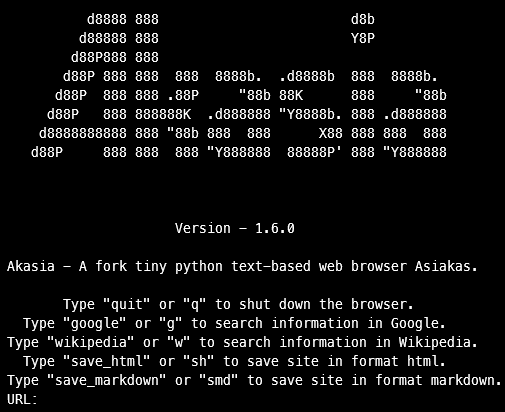
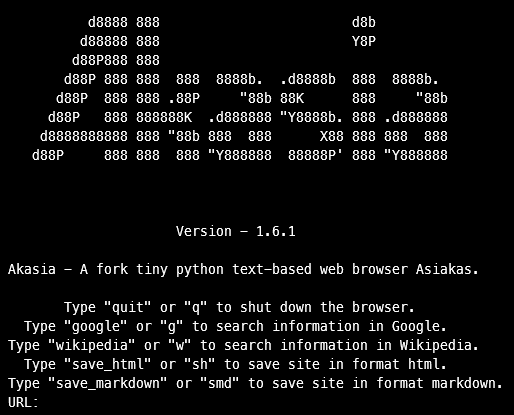
Release 1.6.1
Update requirements

diff --git a/setup.py b/setup.py
@@ -5,7 +5,7 @@ setup.py is the Akasia setup file.
 from setuptools import setup
 
 setup(
-    version='1.6.0',
+    version='1.6.1',
     license="MIT License",
     name='Akasia',
     author='Robrecht De Rouck',
@@ -13,8 +13,7 @@ setup(
     maintainer='RIDERIUS',
     maintainer_email='riderius.help@gmail.com',
     project_urls={
-        "Source Code": "https://github.com/RIDERIUS/Akasia",
-        "Documentation": "https://akasia.readthedocs.io/"},
+        "Source Code": "https://github.com/RIDERIUS/Akasia"},
     classifiers=[
         "License :: OSI Approved :: MIT License",
         "Programming Language :: Python :: 3.9",
@@ -33,16 +32,16 @@ setup(
     long_description=open('README.md').read(),
     long_description_content_type="text/markdown",
     install_requires=[
-        'beautifulsoup4<=4.9.3',
-        'certifi<=2020.12.5',
-        'chardet<=4.0.0',
-        'dock-python-cli<=0.1.2',
-        'dock-python<=0.1.0',
+        'beautifulsoup4>=4.9.3',
+        'certifi>=2020.12.5',
+        'chardet>=3.0.2',
+        'dock-python-cli>=0.1.2',
+        'dock-python>=0.1.0',
         'html2text<=2020.1.16',
         'idna<=2.10',
-        'requests<=2.25.1',
-        'soupsieve<=2.2',
-        'urllib3<=1.26.3',
-        'wikipedia<=1.4.0'
+        'requests>=2.25.1',
+        'soupsieve>=2.2',
+        'urllib3>=1.26.3',
+        'wikipedia>=1.4.0'
     ]
 )

diff --git a/akasia.py b/akasia.py
@@ -6,7 +6,7 @@ import html2text
 import wikipedia
 import dock
 
-VERSION = '1.6.0'
+VERSION = '1.6.1'
 
 # pylint settings:
 # pylint: disable=E1101

diff --git a/CHANGELOG.rst b/CHANGELOG.rst
@@ -2,6 +2,11 @@
 Changelog
 =========
 
+Version 1.6.1
+=============
+
+- Update requirements
+
 Version 1.6.0
 =============
 
